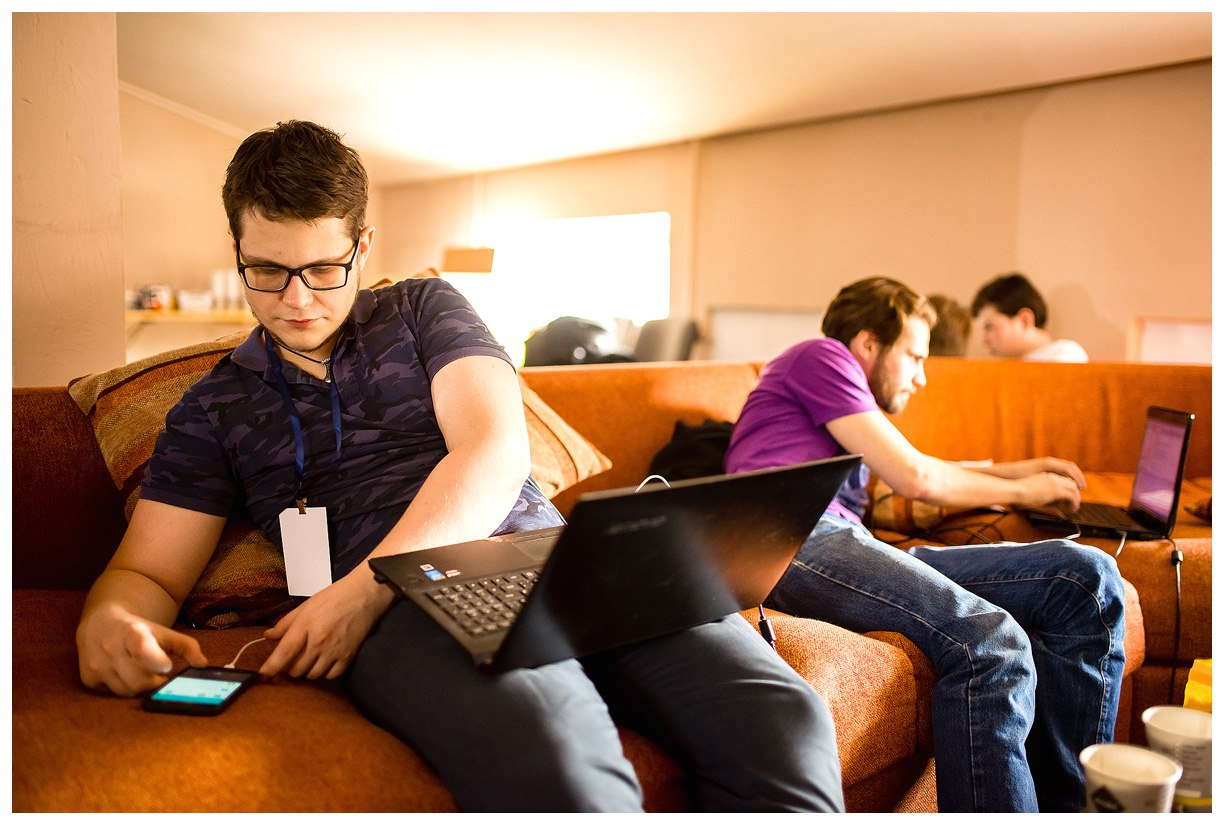
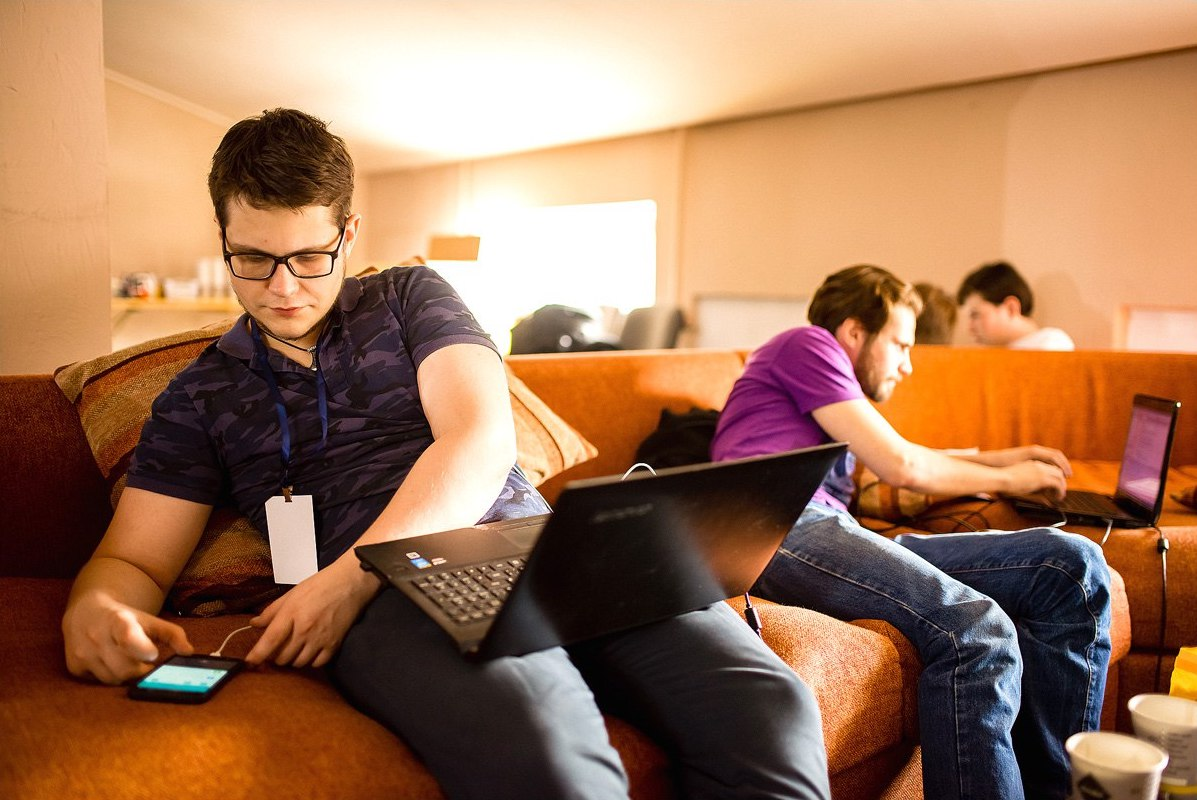
Proper bg hero cover

diff --git a/src/style/components/_hero.scss b/src/style/components/_hero.scss
@@ -3,7 +3,7 @@
   width: 100%;
   background-image: url("/images/hero.jpg");
   box-shadow: $hero-shadow;
-  background-size: auto;
+  background-size: cover;
   background-position: center center;
   background-repeat: no-repeat;
   color: $hero-color;
